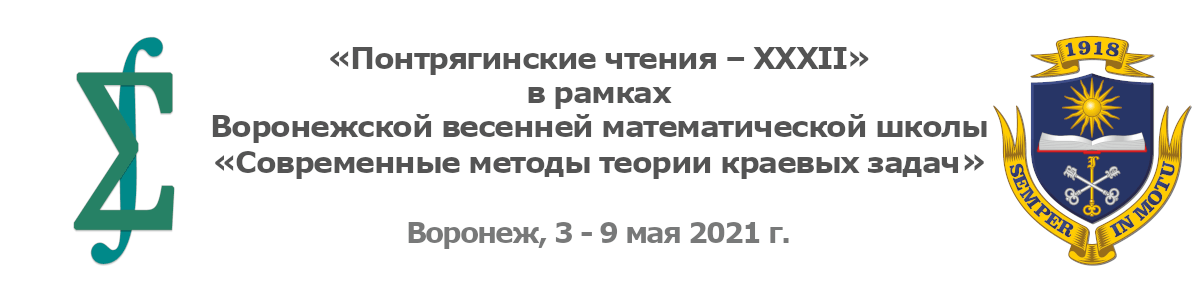
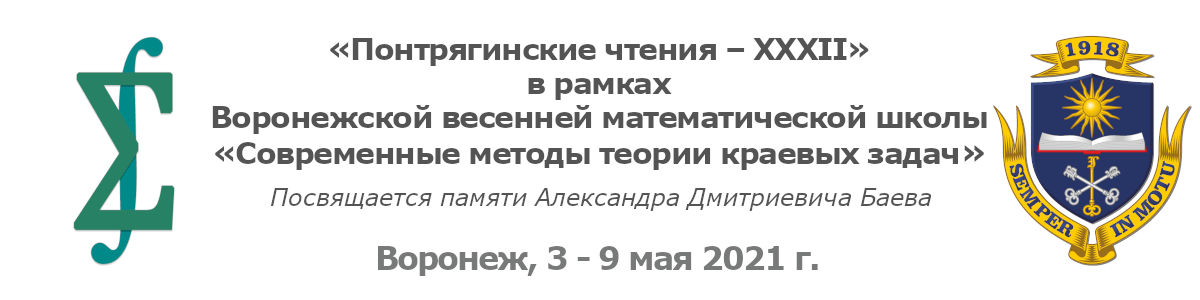
deploy: a7e817c795e541161eb9af26584571176a0c65a7

Changed region(s): [[0.1542, 0.12, 0.8325, 0.6], [0.3083, 0.72, 0.6783, 0.93], [0.2158, 0.63, 0.7708, 0.69]]

diff --git a/index.html b/index.html
@@ -83,7 +83,7 @@
                 <!-- Page content -->
                 <div class="col-lg-8">
     <p><strong><center>Глубокоуважаемые коллеги!</center></strong></p>
-<p>Приглашаем Вас принять участие в Международной Воронежской весенней математической школе, которая состоится с <strong>3 мая</strong> (заезд) по <strong>9 мая</strong> (отъезд) 2021 г. В рамках конференции будет проводиться секция «Псевдодифференциальные операторы и приложения», посвященная памяти профессора Александра Дмитриевича Баева, многие годы руководившего организацией ВВМШ.</p>
+<p>Приглашаем Вас принять участие в Международной Воронежской весенней математической школе, которая состоится с <strong>3 мая</strong> (заезд) по <strong>9 мая</strong> (отъезд) 2021 г. В этом году конференция посвящается памяти профессора Александра Дмитриевича Баева, многие годы руководившего организацией ВВМШ.</p>
 <p><strong>В программе работы школы планируются следующие направления:</strong></p>
 <ul>
 <li>Современные разделы теории краевых задач (в том числе качественная и спектральная теория обыкновенных дифференциальных операторов и операторов в частных производных, аналитические методы в теории интегральных, дифференциальных уравнений и уравнений с дробными производными);</li>
